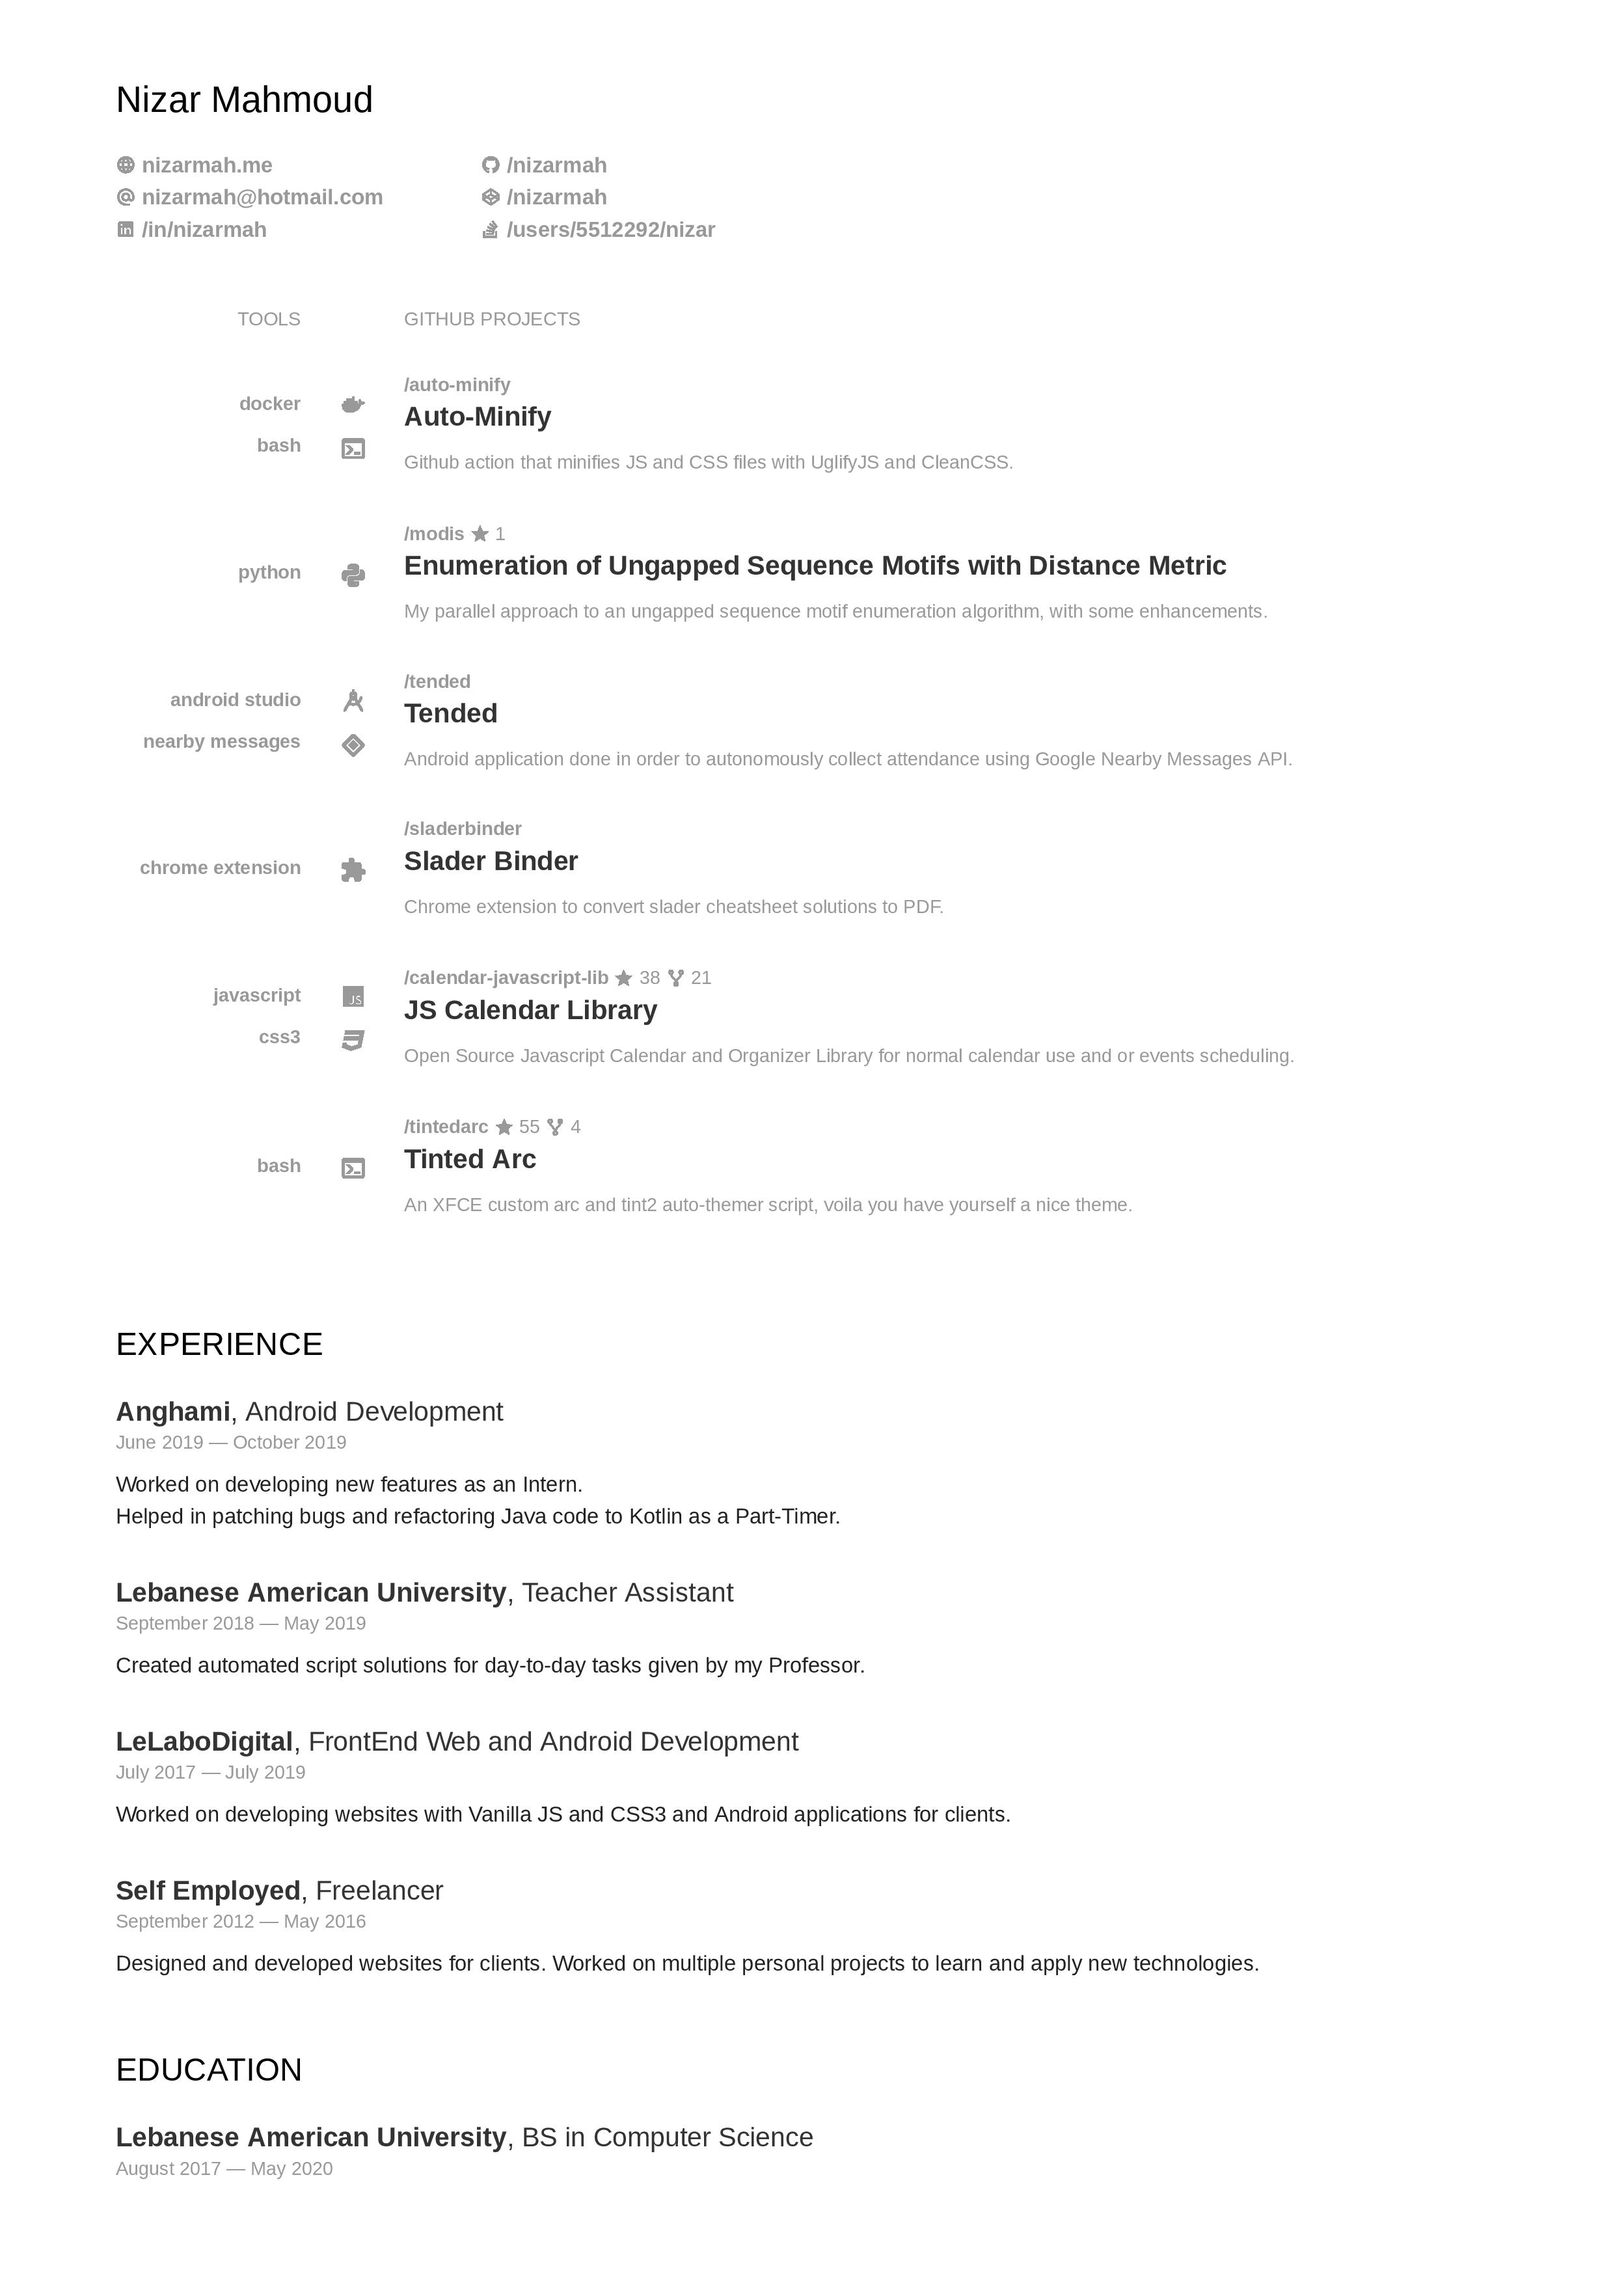
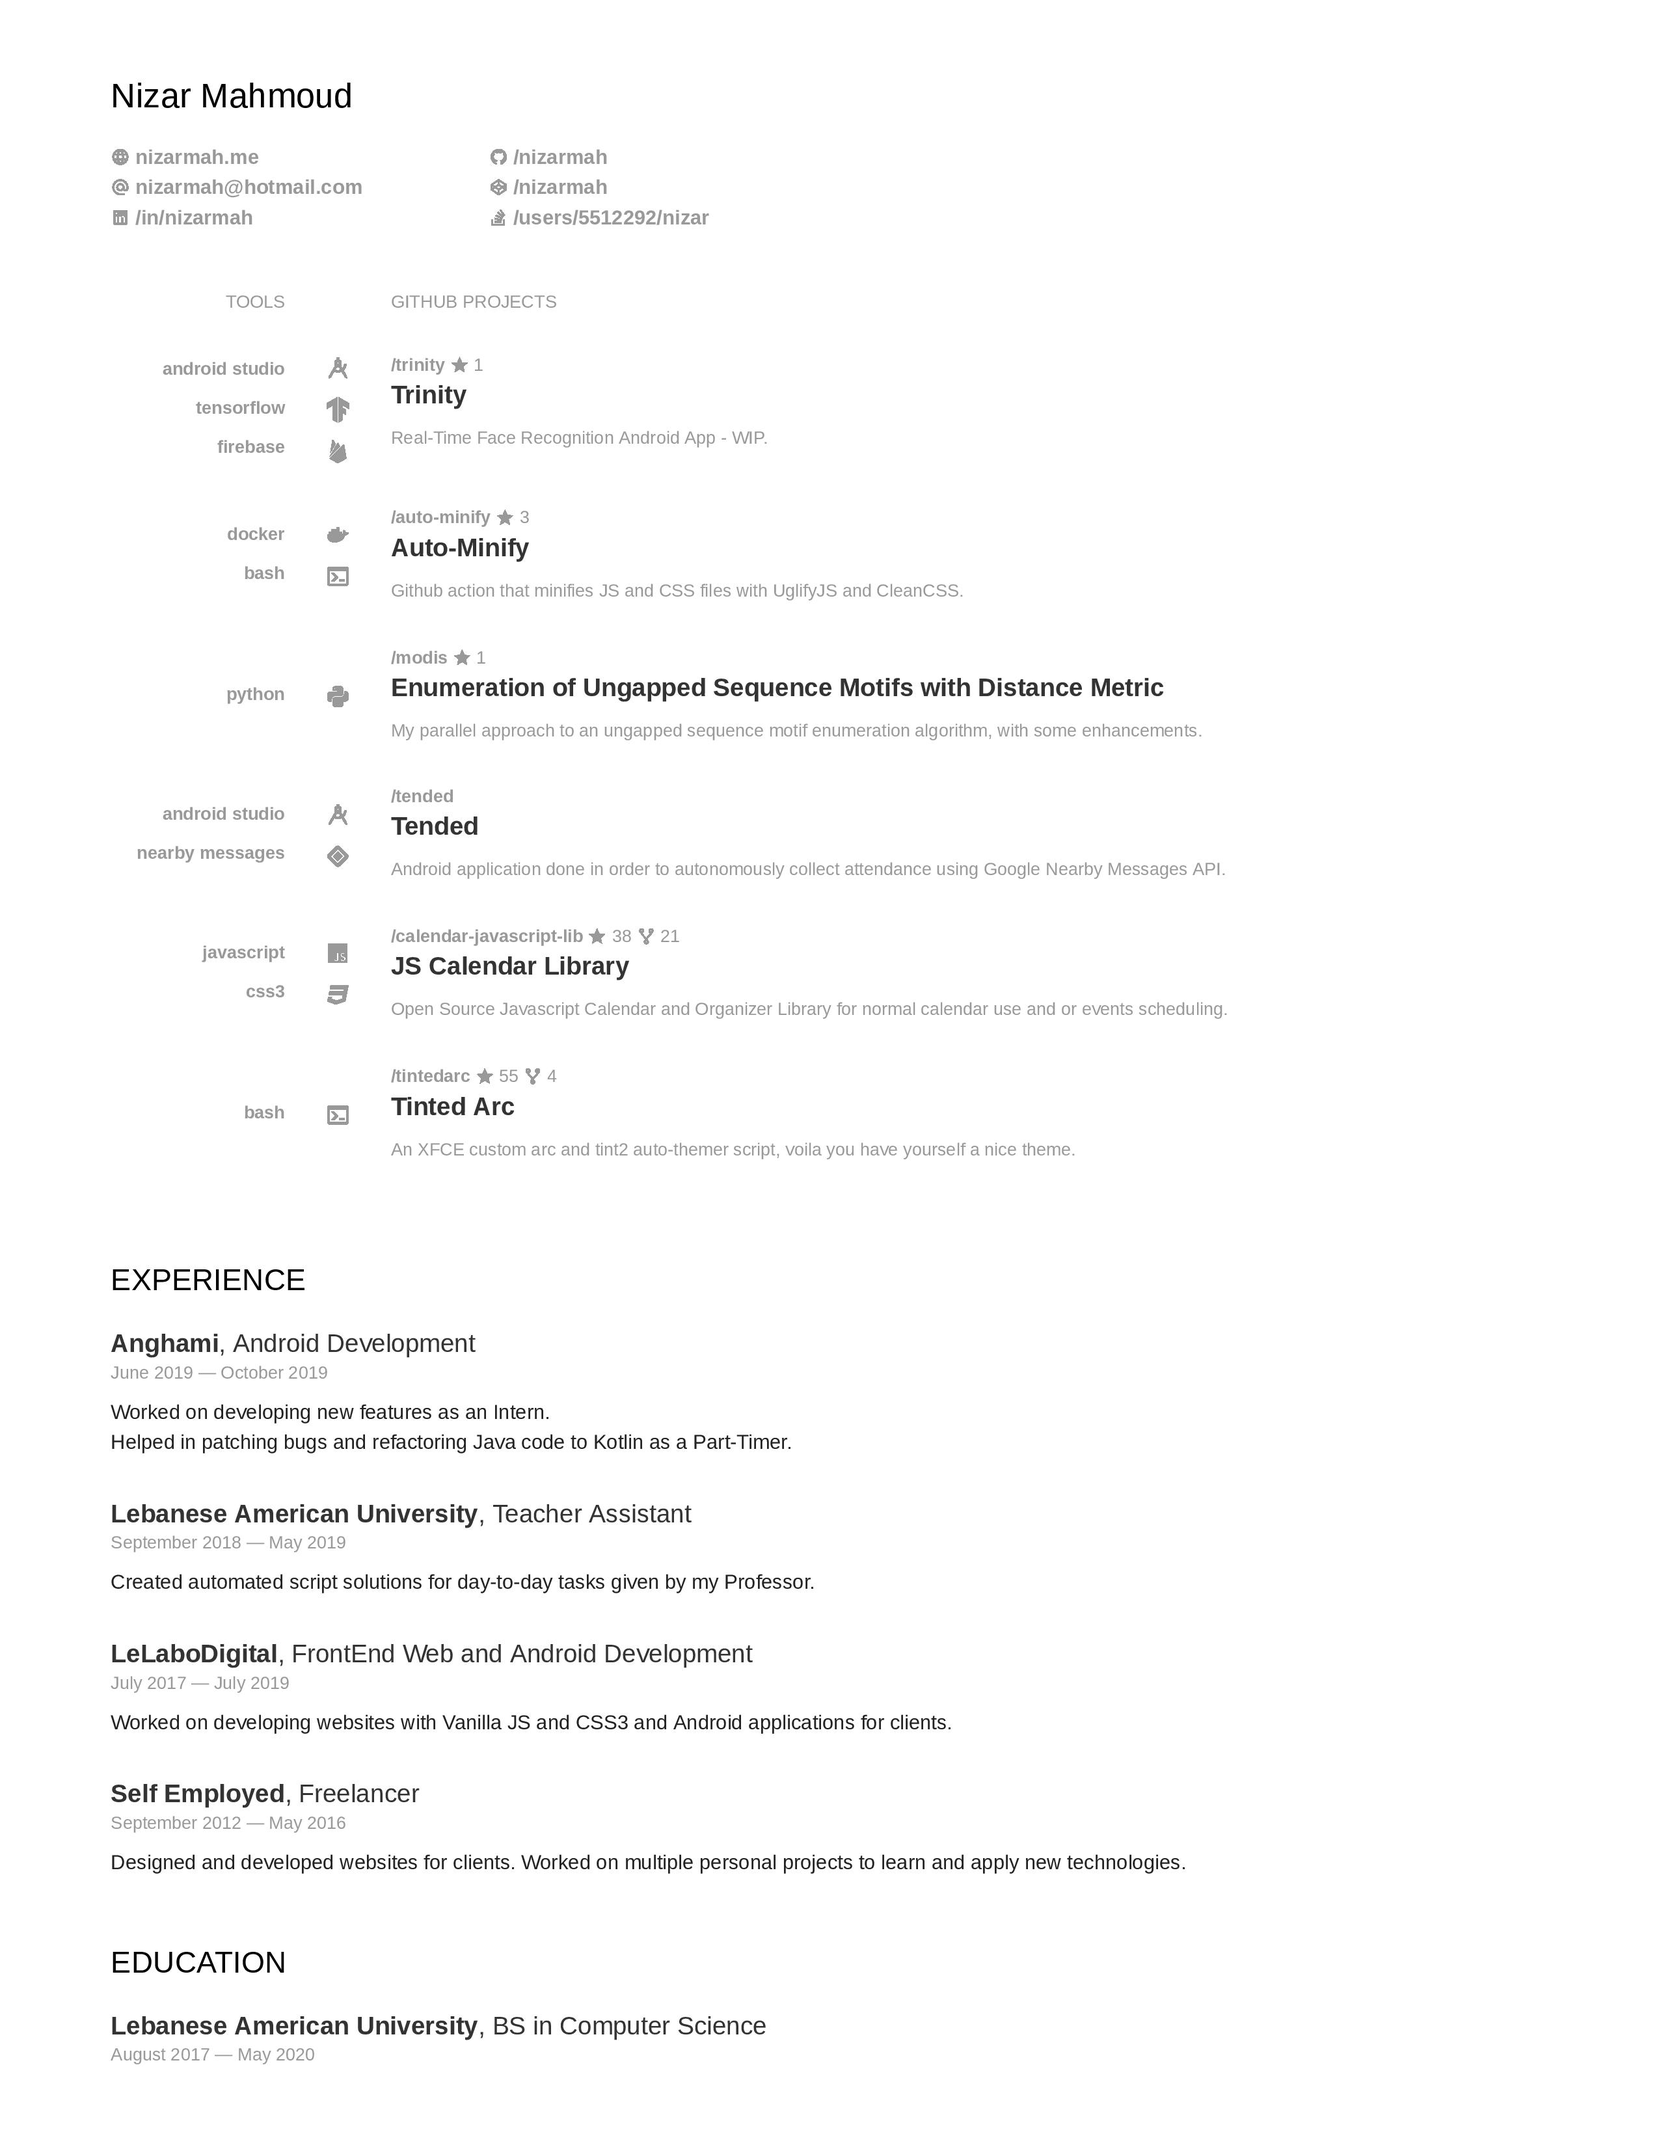
Added New Project: Trinity

diff --git a/index.html b/index.html
@@ -43,10 +43,6 @@
 								<span><span class="uk-icon uk-icon-image uk-icon-github uk-icon-link uk-text-middle" style="background-image: url(icon/at.svg) !important;"></span></span>
 								<span class="uk-text-muted uk-text-bold"><a class="uk-link-reset" href="mailto:nizarmah@hotmail.com">nizarmah@hotmail.com</a></span>
 							</div>
-							<!-- <div>
-								<span><span class="uk-icon uk-icon-image uk-icon-github uk-icon-link uk-text-middle" style="background-image: url(icon/twitter.svg) !important;"></span></span>
-								<span class="uk-text-muted uk-text-bold"><a class="uk-link-reset" href="https://twitter.com/nizarmah_">/nizarmah_</a></span>
-							</div> -->
 							<div>
 								<span><span class="uk-icon uk-icon-image uk-icon-github uk-icon-link uk-text-middle" style="background-image: url(icon/linkedin-box.svg) !important;"></span></span>
 								<span class="uk-text-muted uk-text-bold"><a class="uk-link-reset" href="https://linkedin.com/in/nizarmah">/in/nizarmah</a></span>
@@ -82,6 +78,32 @@
 							<tr>
 								<td class="uk-text-middle">
 									<ul class="uk-list uk-text-right uk-text-muted uk-text-bold uk-text-small uk-text-right">
+										<li>android studio</li>
+										<li>tensorflow</li>
+										<li>firebase</li>
+									</ul>
+								</td>
+								<td class="uk-text-middle uk-text-center">
+									<ul class="uk-list">
+										<li><span class="uk-icon uk-icon-image" style="margin-top: 3px; background-image: url(icon/android-studio.svg) !important;"></span></li>
+										<li><span class="uk-icon uk-icon-image" style="margin-top: 3px; background-image: url(icon/tensorflow.svg) !important;"></span></li>
+										<li><span class="uk-icon uk-icon-image" style="margin-top: 3px; background-image: url(icon/firebase.svg) !important;"></span></li>
+									</ul>
+								</td>
+								<td>
+									<div class="uk-h6 uk-text-muted uk-margin-remove-bottom">
+										<span class="uk-text-middle"><a href="https://github.com/nizarmah/trinity" class="uk-link-reset"><strong>/trinity</strong></a></span>
+
+										<span><span class="uk-icon uk-icon-image uk-icon-github uk-text-middle" style="background-image: url(icon/star.svg) !important;"></span></span>
+										<span class="uk-text-middle">1</span>
+									</div>
+									<span class="uk-h4 uk-text-emphasis"><strong>Trinity</strong></span>
+									<p class="uk-margin-small-top uk-text-small uk-text-muted">Real-Time Face Recognition Android App - WIP.</p>
+								</td>
+							</tr>
+							<tr>
+								<td class="uk-text-middle">
+									<ul class="uk-list uk-text-right uk-text-muted uk-text-bold uk-text-small uk-text-right">
 										<li>docker</li>
 										<li>bash</li>
 									</ul>
@@ -95,6 +117,9 @@
 								<td>
 									<div class="uk-h6 uk-text-muted uk-margin-remove-bottom">
 										<span class="uk-text-middle"><a href="https://github.com/nizarmah/auto-minify" class="uk-link-reset"><strong>/auto-minify</strong></a></span>
+
+										<span><span class="uk-icon uk-icon-image uk-icon-github uk-text-middle" style="background-image: url(icon/star.svg) !important;"></span></span>
+										<span class="uk-text-middle">3</span>
 									</div>
 									<span class="uk-h4 uk-text-emphasis"><strong>Auto-Minify</strong></span>
 									<p class="uk-margin-small-top uk-text-small uk-text-muted">Github action that minifies JS and CSS files with UglifyJS and CleanCSS.</p>
@@ -141,25 +166,6 @@
 									</div>
 									<span class="uk-h4 uk-text-emphasis"><strong>Tended</strong></span>
 									<p class="uk-margin-small-top uk-text-small uk-text-muted">Android application done in order to autonomously collect attendance using Google Nearby Messages API.</p>
-								</td>
-							</tr>
-							<tr>
-								<td class="uk-text-middle">
-									<ul class="uk-list uk-text-right uk-text-muted uk-text-bold uk-text-small uk-text-right">
-										<li>chrome extension</li>
-									</ul>
-								</td>
-								<td class="uk-text-middle uk-text-center">
-									<ul class="uk-list">
-										<li><span class="uk-icon uk-icon-image" style="margin-top: 3px; background-image: url(icon/puzzle.svg) !important;"></span></li>
-									</ul>
-								</td>
-								<td>
-									<div class="uk-h6 uk-text-muted uk-margin-remove-bottom">
-										<span class="uk-text-middle"><a href="https://github.com/nizarmah/sladerbinder" class="uk-link-reset"><strong>/sladerbinder</strong></a></span>
-									</div>
-									<span class="uk-h4 uk-text-emphasis"><strong>Slader Binder</strong></span>
-									<p class="uk-margin-small-top uk-text-small uk-text-muted">Chrome extension to convert slader cheatsheet solutions to PDF.</p>
 								</td>
 							</tr>
 							<tr>
